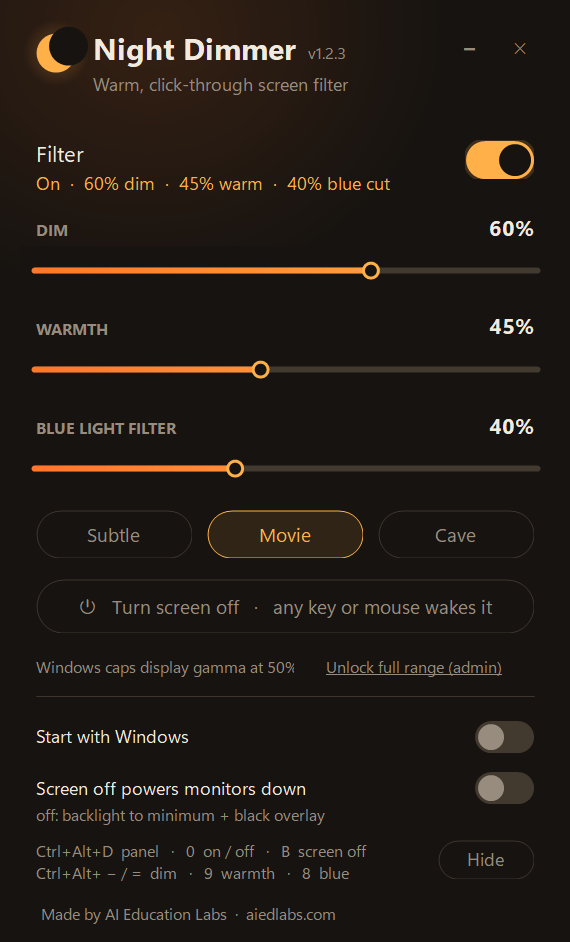
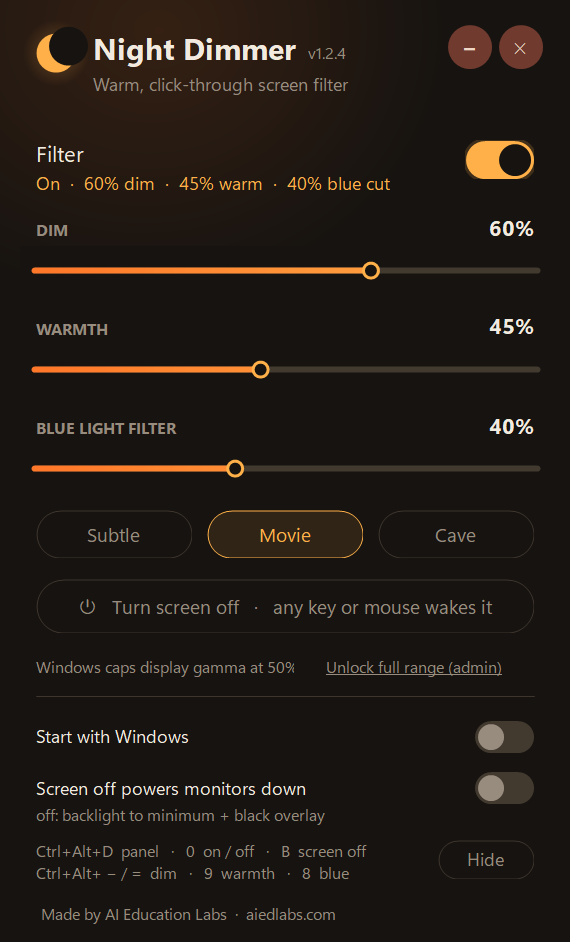
1.2.4: reddish-brown fill on the panel's minimize/close buttons so they stay visible when dimmed

Changed region(s): [[0.7754, 0.0, 0.9544, 0.0924]]

diff --git a/NightDimmer.cs b/NightDimmer.cs
@@ -26,14 +26,14 @@ using Microsoft.Win32;
 [assembly: System.Reflection.AssemblyDescription("Dim and warm your screen for night viewing")]
 [assembly: System.Reflection.AssemblyCompany("AI Education Labs")]
 [assembly: System.Reflection.AssemblyCopyright("Copyright © 2026 AI Education Labs. MIT License.")]
-[assembly: System.Reflection.AssemblyVersion("1.2.3.0")]
-[assembly: System.Reflection.AssemblyFileVersion("1.2.3.0")]
+[assembly: System.Reflection.AssemblyVersion("1.2.4.0")]
+[assembly: System.Reflection.AssemblyFileVersion("1.2.4.0")]
 
 namespace NightDimmer
 {
     static class About
     {
-        public const string Version = "1.2.3";
+        public const string Version = "1.2.4";
         public const string Company = "AI Education Labs";
         public const string Site = "https://aiedlabs.com";
         public const string Repo = "https://github.com/AI-Education-Labs/night-dimmer";
@@ -736,6 +736,7 @@ namespace NightDimmer
         bool hover, down, active;
         public bool Borderless;
         public bool Danger; // hover turns red: destructive action
+        public Color Tint = Color.Empty; // resting fill, for buttons that must stay visible on a dark screen
         public bool Active { get { return active; } set { active = value; Invalidate(); } }
 
         public Pill()
@@ -766,10 +767,15 @@ namespace NightDimmer
             Color fill = down ? Theme.Hover : (hover ? Theme.Surface : (active ? Theme.Surface : BackColor));
             Color border = active ? Theme.Accent : (Borderless ? Color.Transparent : Theme.Border);
             Color text = active ? Theme.Accent : (hover ? Theme.Text : Theme.Muted);
-            if (Danger && hover) { fill = Color.FromArgb(70, 200, 60, 50); text = Color.FromArgb(255, 120, 110); }
+            if (Tint != Color.Empty)
+            {
+                fill = down ? Theme.Lerp(Tint, Theme.Text, 0.28f) : (hover ? Theme.Lerp(Tint, Theme.Text, 0.14f) : Tint);
+                text = Color.FromArgb(240, 214, 198);
+            }
+            if (Danger && hover) { fill = Color.FromArgb(200, 60, 50); text = Color.FromArgb(255, 236, 230); }
             using (GraphicsPath gp = Theme.Round(r, Height / 2f))
             {
-                if (fill != BackColor || active) using (SolidBrush b = new SolidBrush(active && !hover ? Color.FromArgb(28, Theme.Accent) : fill)) g.FillPath(b, gp);
+                if (fill != BackColor || active || Tint != Color.Empty) using (SolidBrush b = new SolidBrush(active && !hover ? Color.FromArgb(28, Theme.Accent) : fill)) g.FillPath(b, gp);
                 if (border.A > 0) using (Pen p = new Pen(border, 1f)) g.DrawPath(p, gp);
             }
             TextRenderer.DrawText(g, Text, Font, new Rectangle(0, 0, Width, Height), text,
@@ -981,7 +987,8 @@ namespace NightDimmer
             fHint = Theme.Font(8f, FontStyle.Regular);
 
             // X quits the whole app (the footer "Hide" just dismisses the panel)
-            Pill close = new Pill(); close.Text = "✕"; close.Borderless = true; close.Danger = true;
+            Color headerTint = Color.FromArgb(112, 58, 46); // reddish brown, readable even under a heavy dim
+            Pill close = new Pill(); close.Text = "✕"; close.Borderless = true; close.Danger = true; close.Tint = headerTint;
             close.Font = Theme.Font(10f, FontStyle.Regular);
             close.SetBounds(S(W - P - 24), S(Y_HEADER - 6), S(30), S(30));
             close.Click += delegate { exit(); };
@@ -989,7 +996,7 @@ namespace NightDimmer
             ToolTip tip = new ToolTip(); tip.SetToolTip(close, "Quit Night Dimmer (turns the filter off)");
 
             // minimize to the taskbar (filter keeps running; Ctrl+Alt+D or the tray icon brings it back)
-            Pill mini = new Pill(); mini.Text = "–"; mini.Borderless = true;
+            Pill mini = new Pill(); mini.Text = "–"; mini.Borderless = true; mini.Tint = headerTint;
             mini.Font = Theme.Font(11f, FontStyle.Bold);
             mini.SetBounds(S(W - P - 24 - 34), S(Y_HEADER - 6), S(30), S(30));
             mini.Click += delegate { WindowState = FormWindowState.Minimized; };
